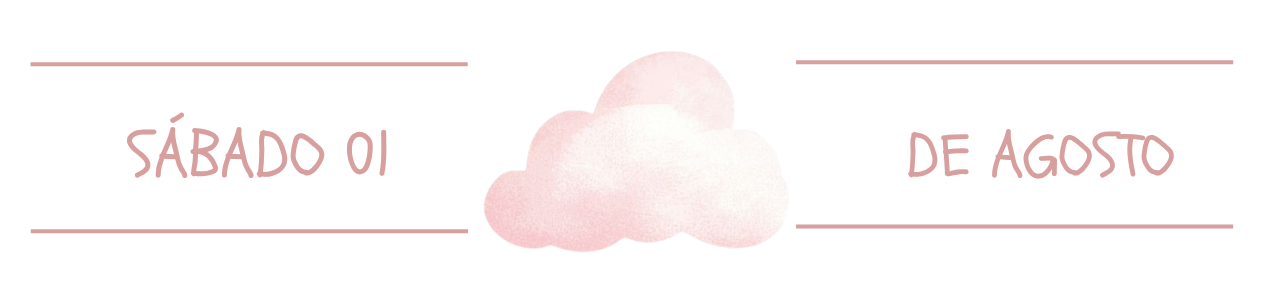
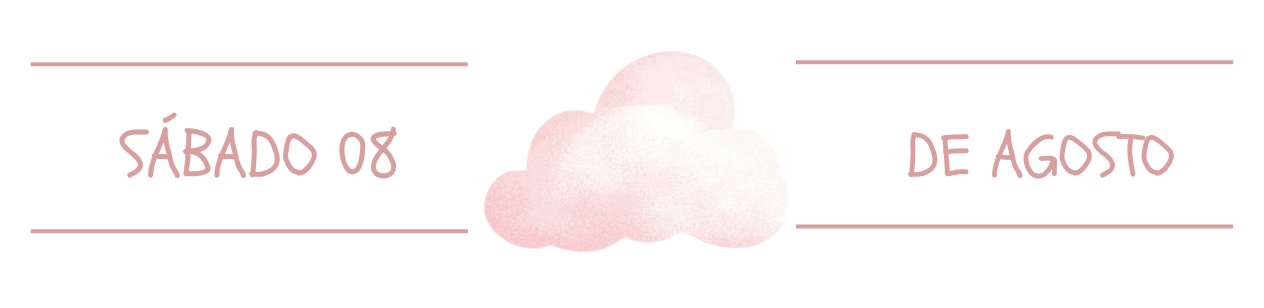
A
A

Changed region(s): [[0.0926, 0.3506, 0.3394, 0.5844]]

diff --git a/index.html b/index.html
@@ -42,8 +42,8 @@
     <div class="segundo"> 
       
       <p data-aos="fade-up"> TE ESPERO PARA CELEBRAR <br> MI PRIMER AÑITO <br><br>
-        🎉 01 DE AGOSTO<br>⏰ A PARTIR DE LAS 13:00 HS <br> 🏡 SUM BARRIO LAR DE BOEDO <br> <br>  HACE CLICK PARA SABER COMO LLEGAR</p>
-      <a  data-aos="fade-up" class="boton2" target="_blank"  href="https://www.google.com/maps/dir//Barrio+Privado+Lar+de+Boedo,+M5505+Luj%C3%A1n+de+Cuyo,+Mendoza/@-32.9871733,-68.8349156,17z/data=!4m17!1m7!3m6!1s0x967e0b154d07fb8f:0x5a93cb937640ee4f!2sBarrio+Privado+Lar+de+Boedo!8m2!3d-32.9871733!4d-68.8349156!16s%2Fg%2F11g8ngqtdx!4m8!1m0!1m5!1m1!1s0x967e0b154d07fb8f:0x5a93cb937640ee4f!2m2!1d-68.8349156!2d-32.9871733!3e0!18m1!1e1?entry=ttu&g_ep=EgoyMDI2MDUwNi4wIKXMDSoASAFQAw%3D%3D">CÓMO LLEGAR</a>    
+        🎉 08 DE AGOSTO<br>⏰ A LAS 13:00 HS <br> 🏡 FINCA "LA MARIANA"<br> <br>  HACE CLICK PARA SABER COMO LLEGAR</p>
+      <a  data-aos="fade-up" class="boton2" target="_blank"  href="https://www.google.com/maps/dir//Finca+La+Mariana,+La+Junta+S%2FN,+M5570+San+Mart%C3%ADn,+Mendoza/@-33.0993072,-68.4106211,17z/data=!4m17!1m7!3m6!1s0x967e0b243163de75:0x3ec1a576bd118f0d!2sFinca+La+Mariana!8m2!3d-33.0993117!4d-68.4080408!16s%2Fg%2F11n160dp8c!4m8!1m0!1m5!1m1!1s0x967e0b243163de75:0x3ec1a576bd118f0d!2m2!1d-68.4080408!2d-33.0993117!3e0?entry=ttu&g_ep=EgoyMDI2MDUyNy4wIKXMDSoASAFQAw%3D%3D">CÓMO LLEGAR</a>    
        
  
     </div>
@@ -83,7 +83,7 @@
           </div>
           <div>
             <h2 data-aos="fade-up" >Rufina</h2>
-            <H3 data-aos="fade-up">01.08.26</H3>
+            <H3 data-aos="fade-up">08.08.26</H3>
           </div>
           <div>
             <img class="espejo" src="./figuras/icon-1.png" alt="">

diff --git a/countdown.js b/countdown.js
@@ -30,4 +30,4 @@ const countdown = (deadline, elem, finalMessage ) => {
 };
 
 
-countdown('AUG 01 2026 18:30:51 GMT-0300', 'clock', 'llego el dia')
+countdown('AUG 08 2026 13:00:51 GMT-0300', 'clock', 'llego el dia')